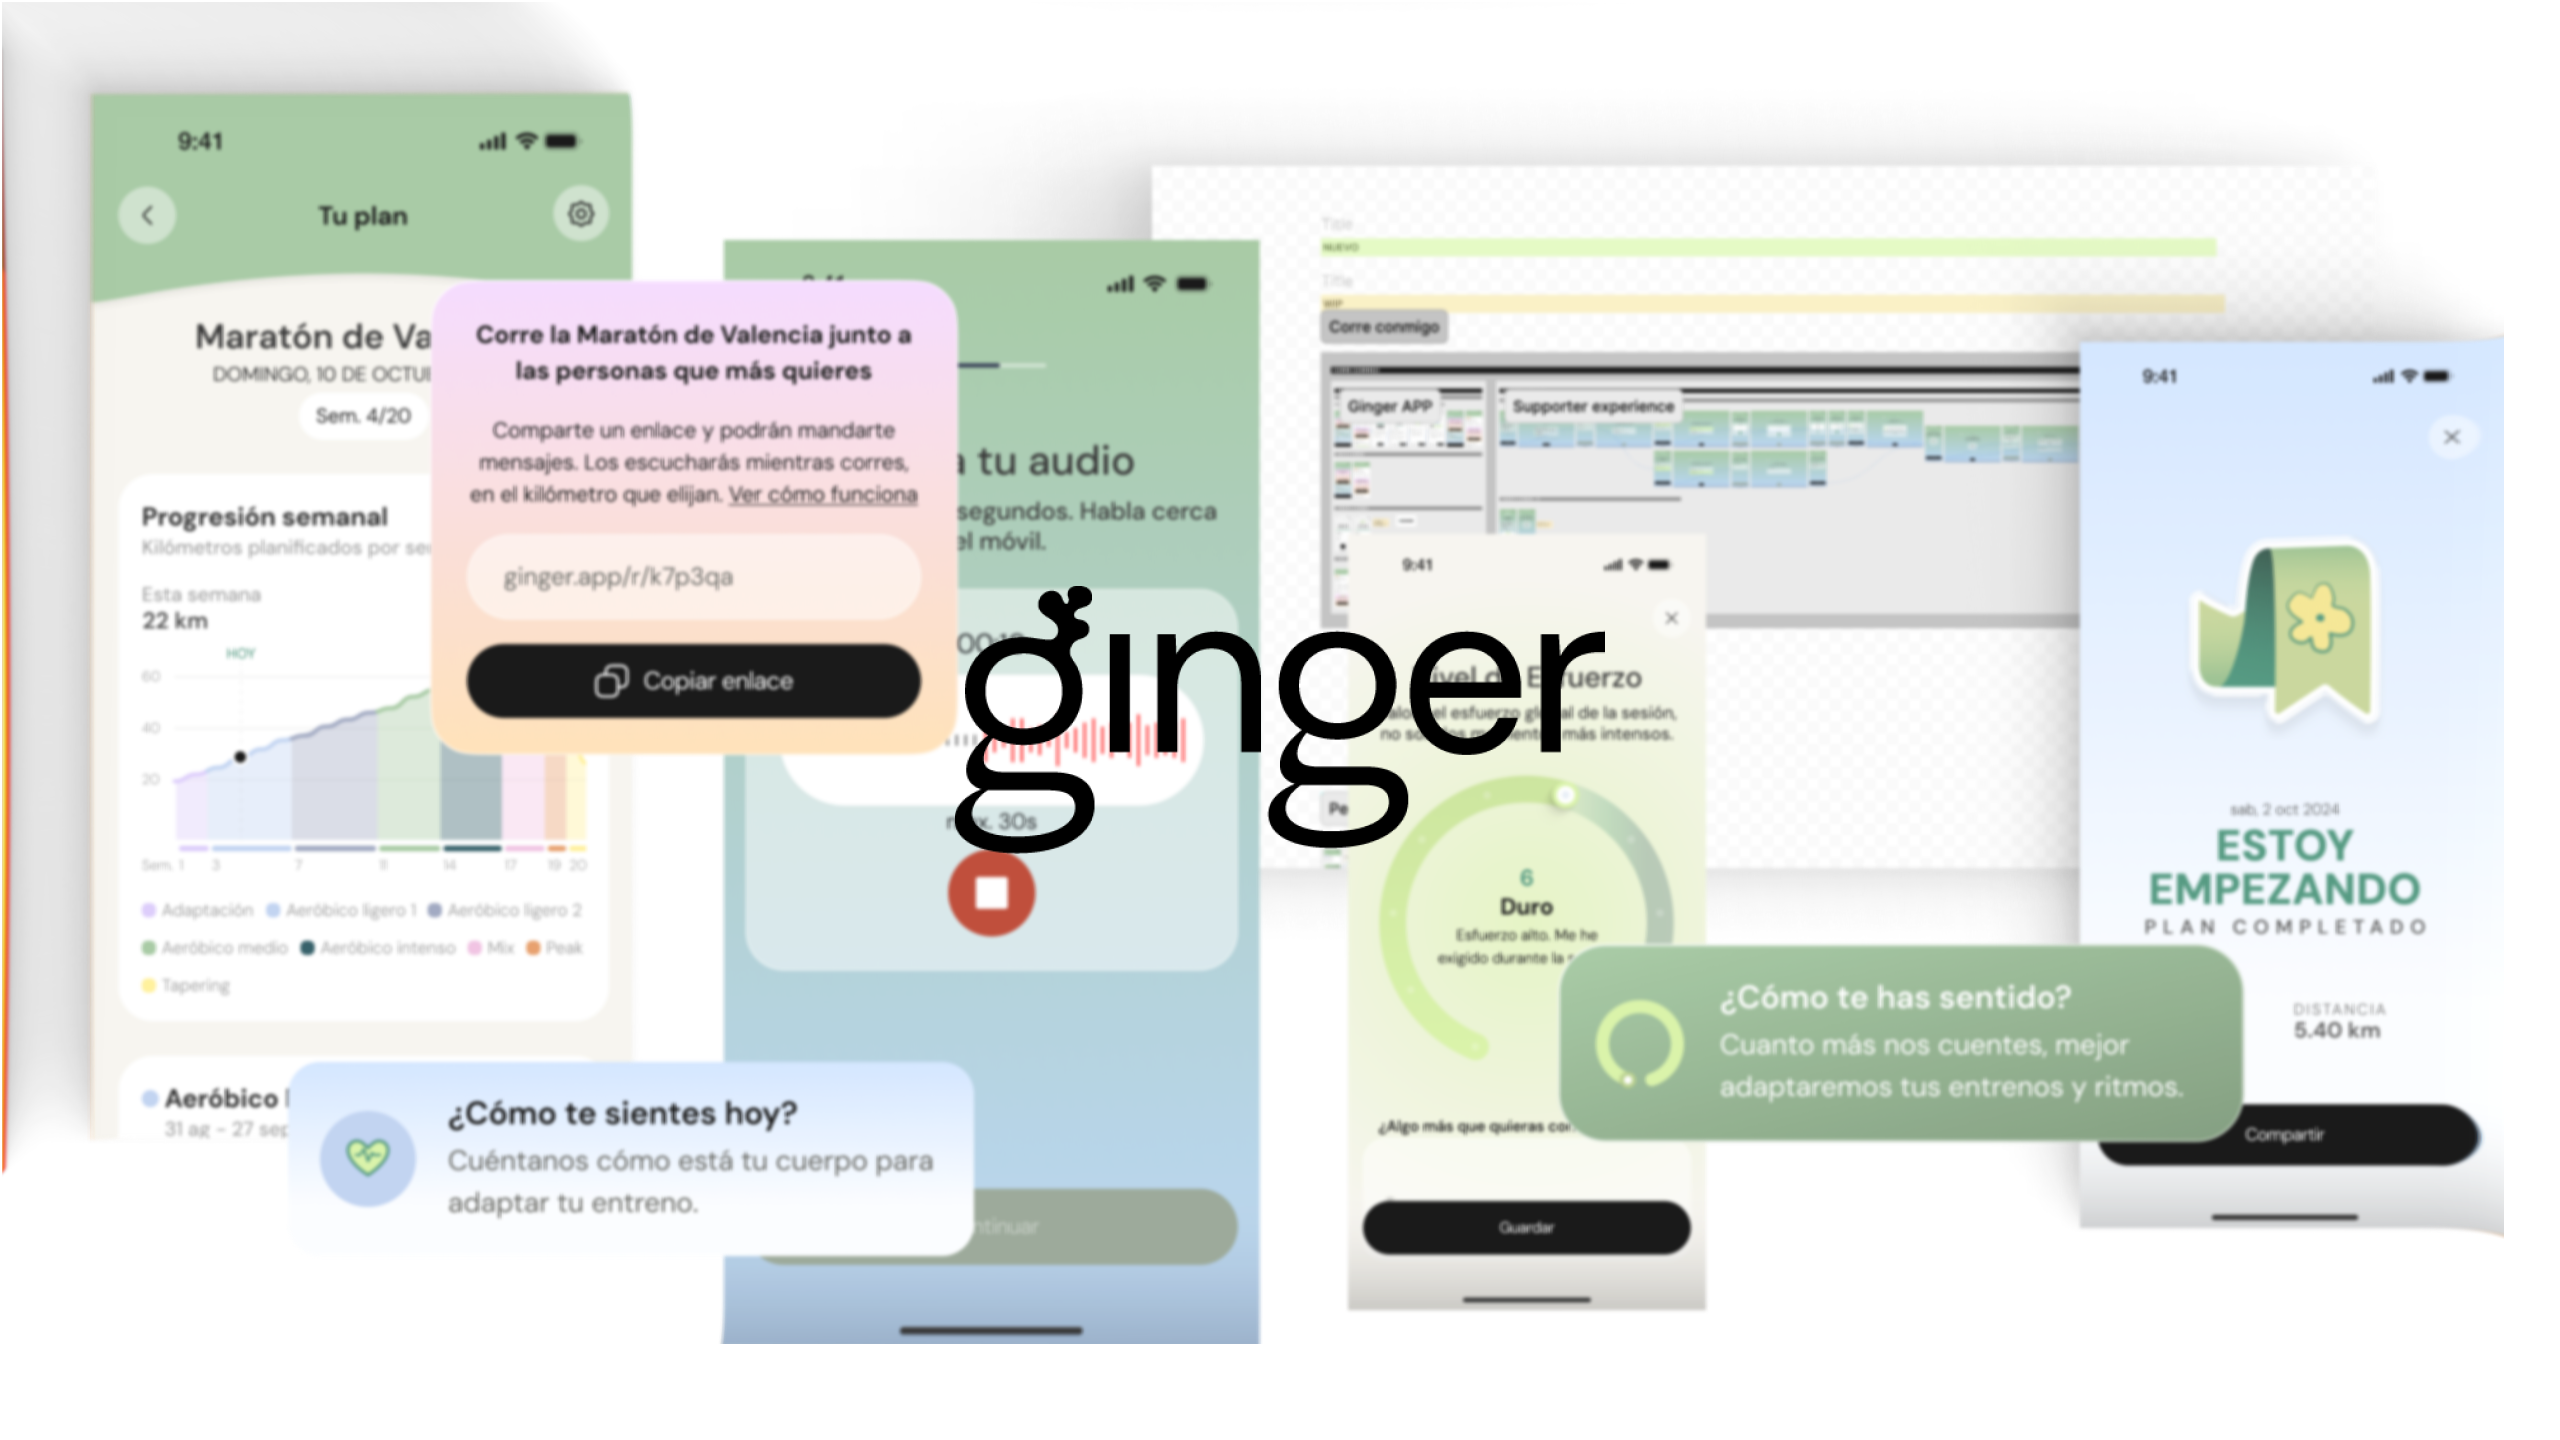
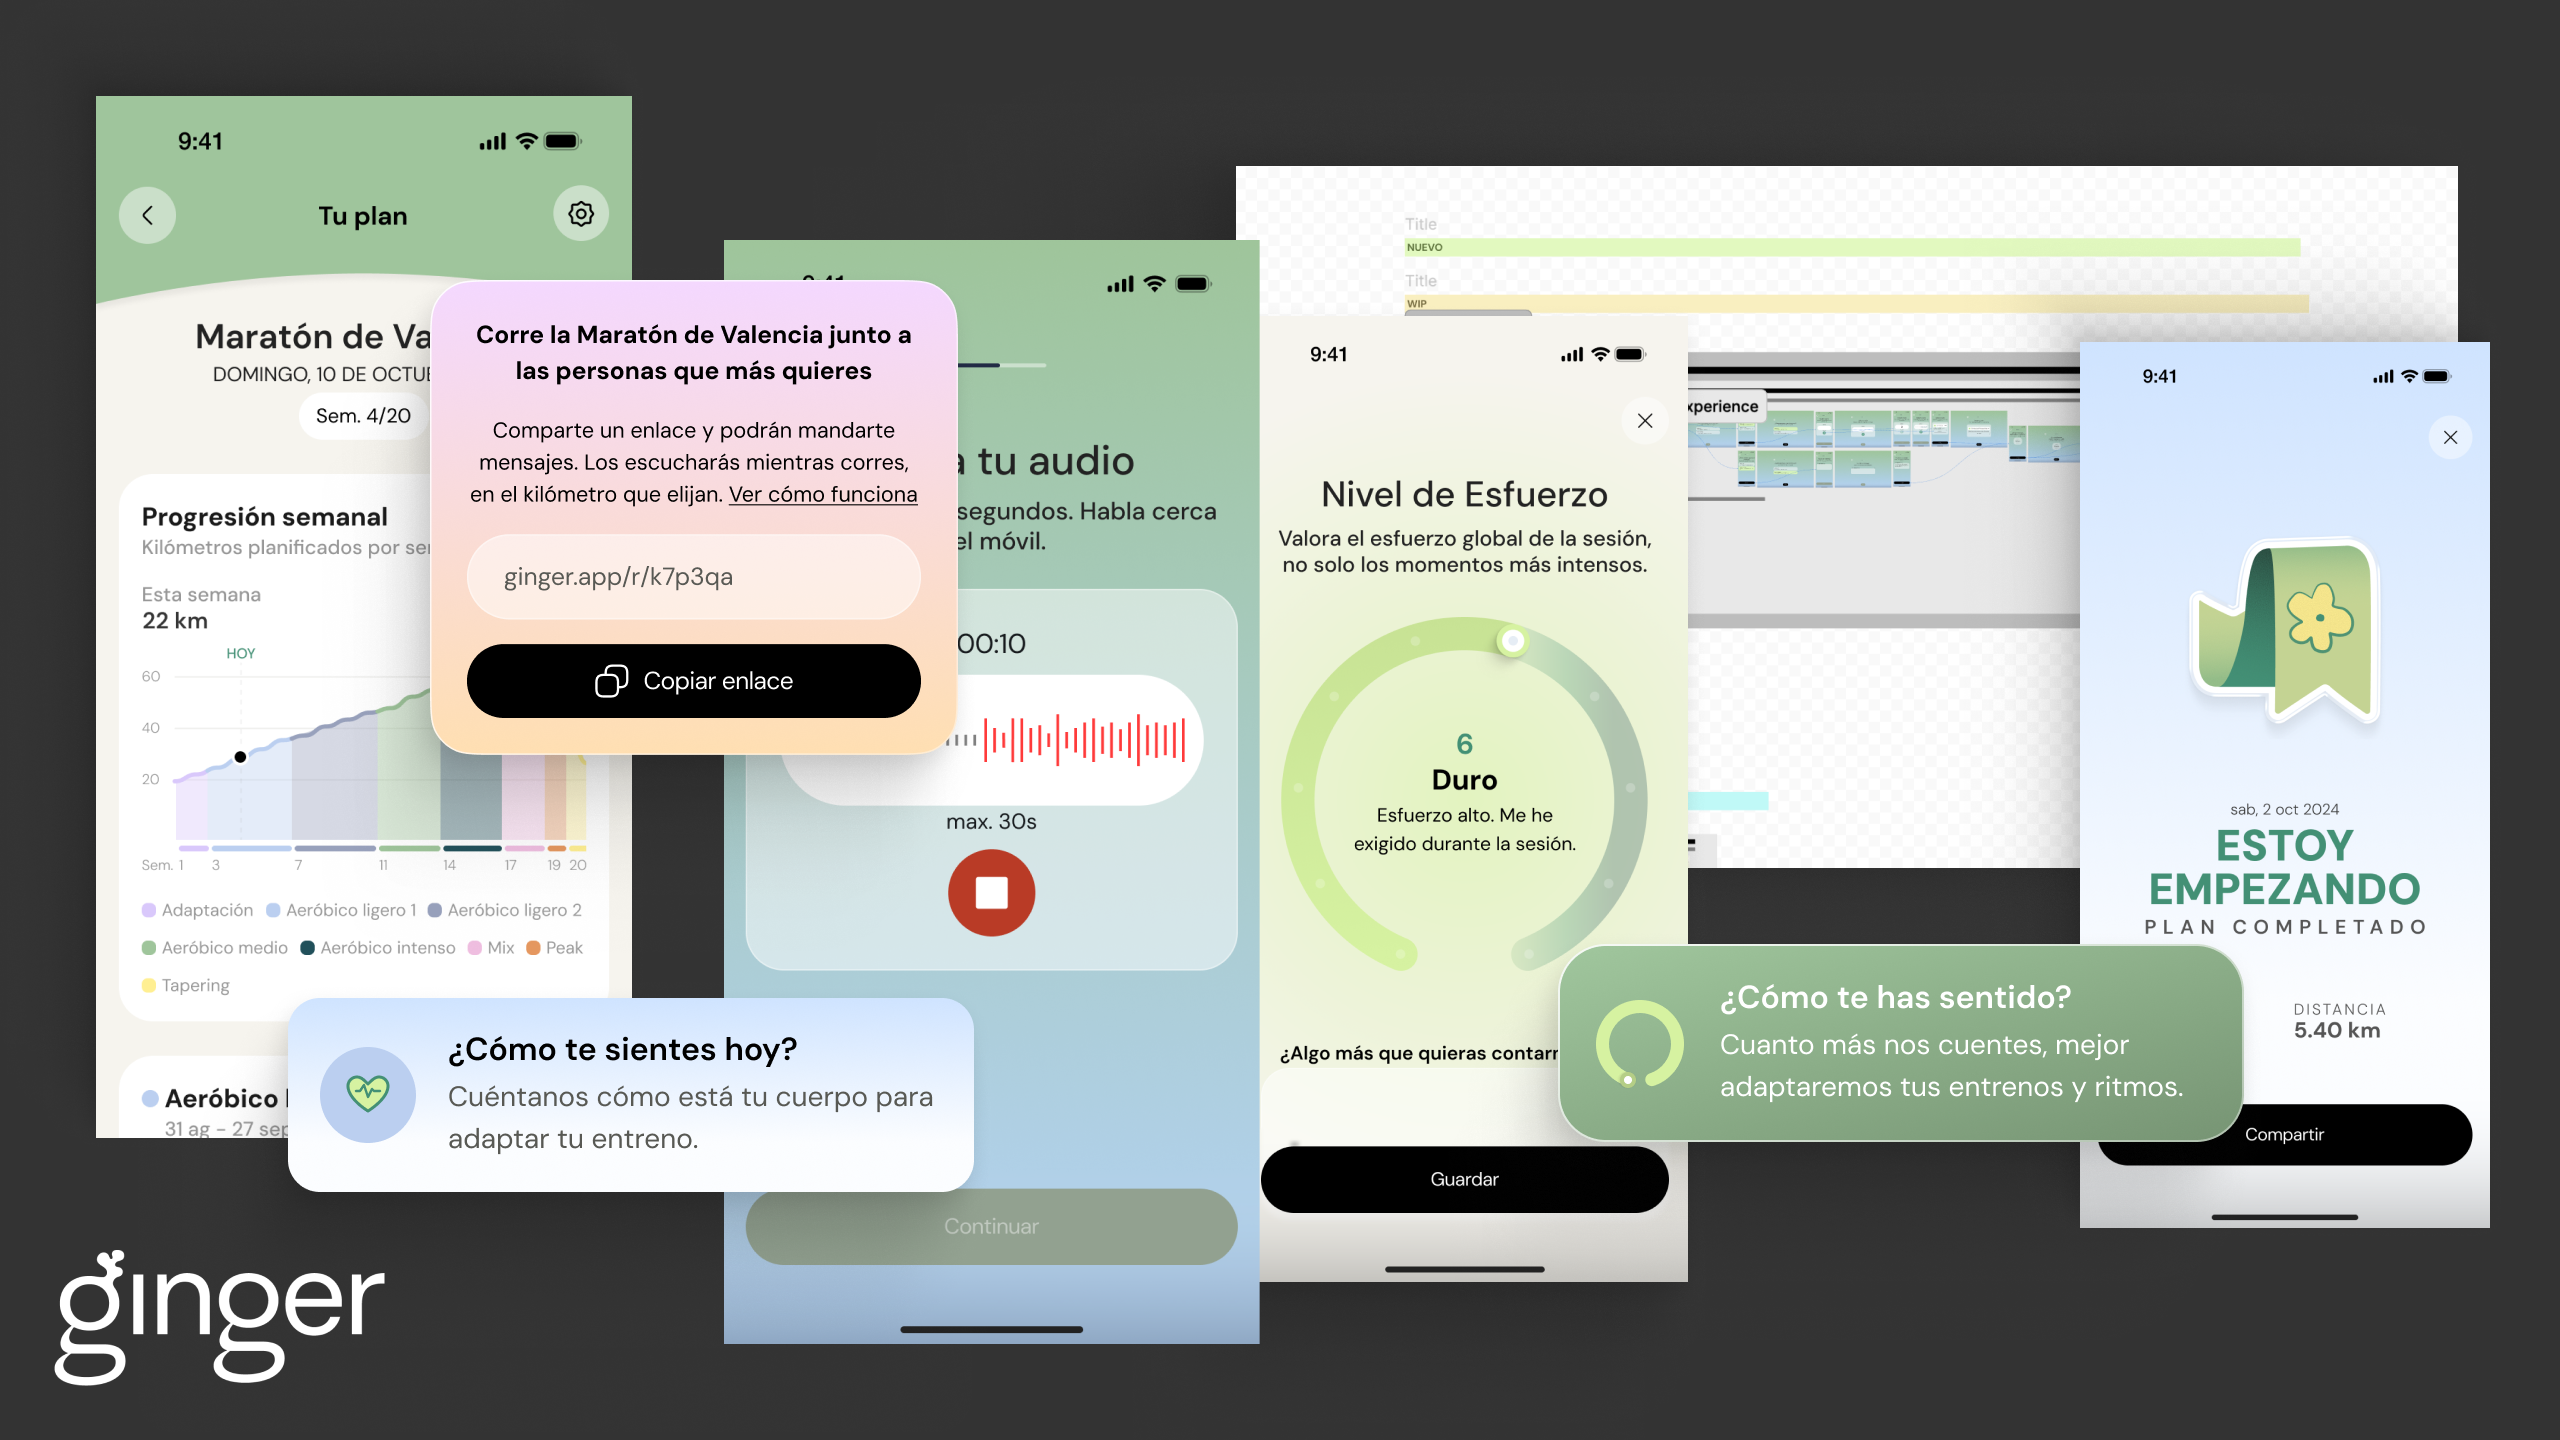
Replace project covers with Manuela's dark-background exports
Update alt texts to match the new covers.

Claude-Session: https://claude.ai/code/session_01D7dkdhkbJWeTfAvWeM4tHk

diff --git a/src/data/projects.ts b/src/data/projects.ts
@@ -14,7 +14,7 @@ export interface Project {
   imageAlt: string;
 }
 
-// Content confirmed by Manuela on 28 Oct 2026. Cover images are Manuela's 2560 × 1440 exports.
+// Content confirmed by Manuela on 28 Oct 2026. Cover images are Manuela's 2560 × 1440 exports on a dark #333 background.
 export const projects: Project[] = [
   {
     title: 'RSS.com',
@@ -23,7 +23,7 @@ export const projects: Project[] = [
     summary:
       'An intuitive podcast hosting platform designed to empower creators with seamless tools for sharing their stories with the world.',
     image: rss,
-    imageAlt: 'RSS.com logo over the podcast dashboard, the public website and the mobile app, with the design system in the background',
+    imageAlt: 'RSS.com podcast dashboard, public website and mobile app with the design system behind, RSS.com logo at the bottom left',
   },
   {
     title: 'Evins',
@@ -32,7 +32,7 @@ export const projects: Project[] = [
     summary:
       'Winery operations app for harvest planning, grape intake and cellar production, taken from wireframes to high fidelity.',
     image: evins,
-    imageAlt: 'Evins logo over the harvest planning screens, a tablet view and hand-drawn process notes',
+    imageAlt: 'Evins harvest planning screens and a tablet view over hand-drawn process notes, Evins logo at the bottom left',
   },
   {
     title: 'Ginger',
@@ -41,7 +41,7 @@ export const projects: Project[] = [
     summary:
       'Running-training app with plans that adapt to the menstrual cycle. Started as product manager, now designing new features.',
     image: ginger,
-    imageAlt: 'Ginger logo over the training plan, audio message, effort rating and plan completed screens',
+    imageAlt: 'Ginger training plan, audio message, effort rating and plan completed screens, Ginger logo at the bottom left',
   },
   {
     title: 'Gamestry',
@@ -49,7 +49,7 @@ export const projects: Project[] = [
     period: '2019 → 2022',
     summary: 'Structure and design of a video platform based on gaming content.',
     image: gamestry,
-    imageAlt: 'Gamestry owl logo over the video platform home page, a wireframe and the design system',
+    imageAlt: 'Gamestry video platform home page and game page beside a wireframe and the design system, Gamestry owl logo at the bottom left',
   },
   {
     title: 'L’Esclusività',
@@ -58,6 +58,6 @@ export const projects: Project[] = [
     summary:
       'A reimagined brand experience that blends timeless elegance with modern design, offering a sophisticated digital presence for a legacy brand.',
     image: lesclusivita,
-    imageAlt: 'L’Esclusività wordmark over the website, business cards, brand pattern and event photography',
+    imageAlt: 'L’Esclusività website, business cards, brand pattern and event photography, L’Esclusività wordmark at the bottom left',
   },
 ];
